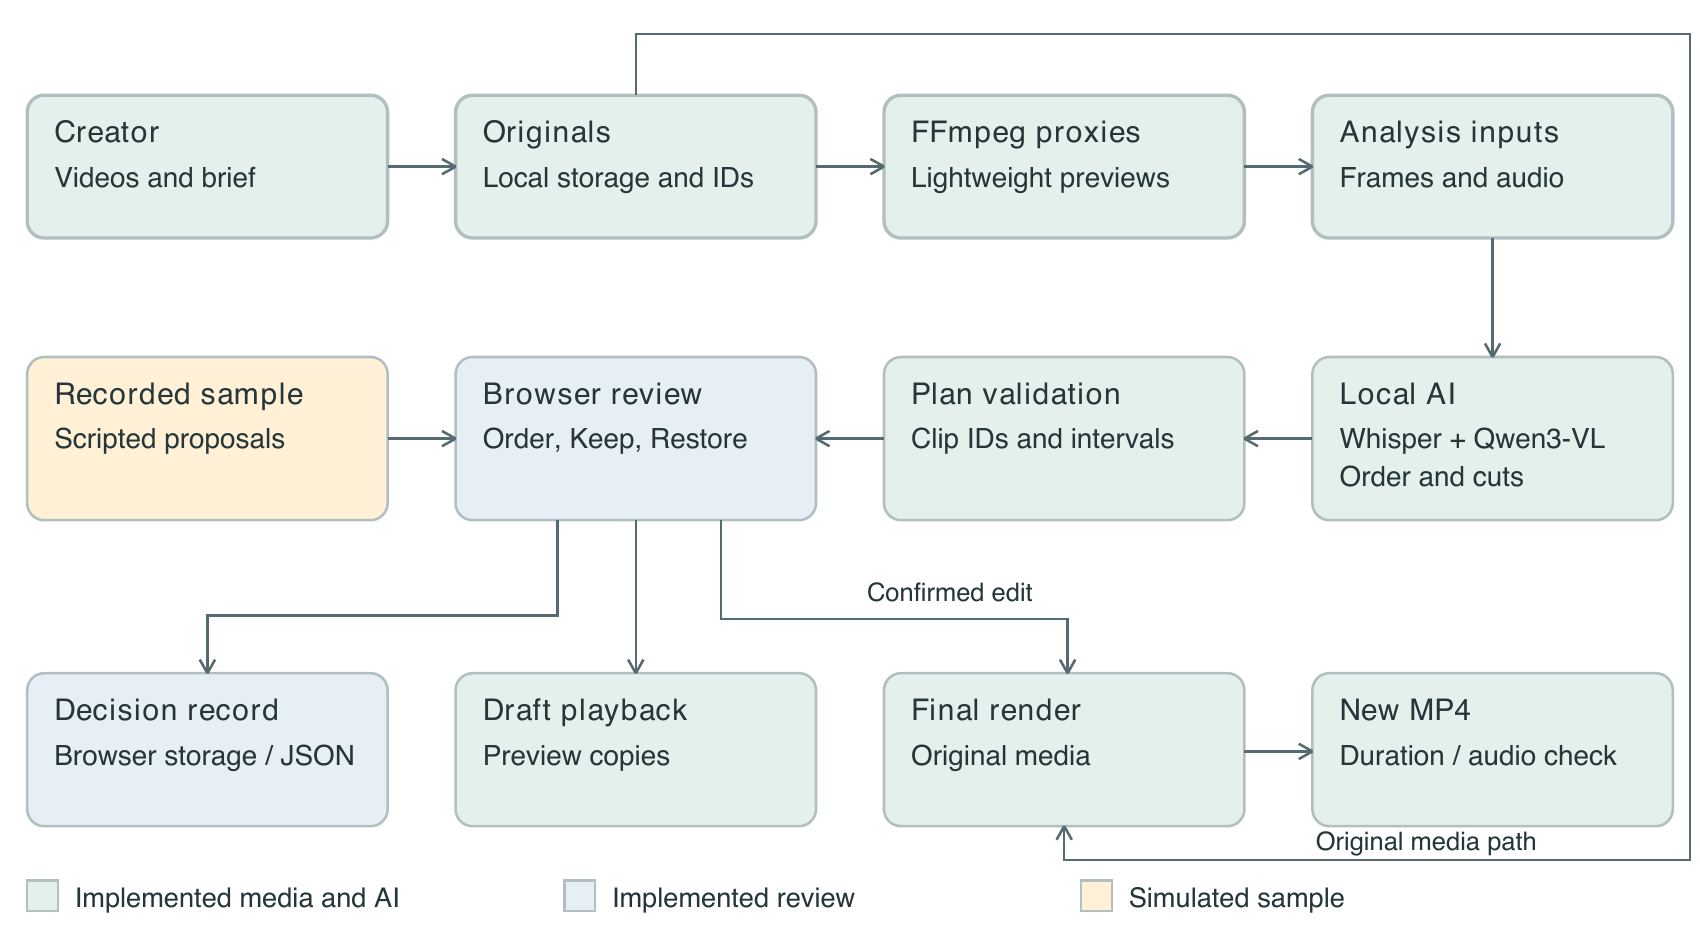
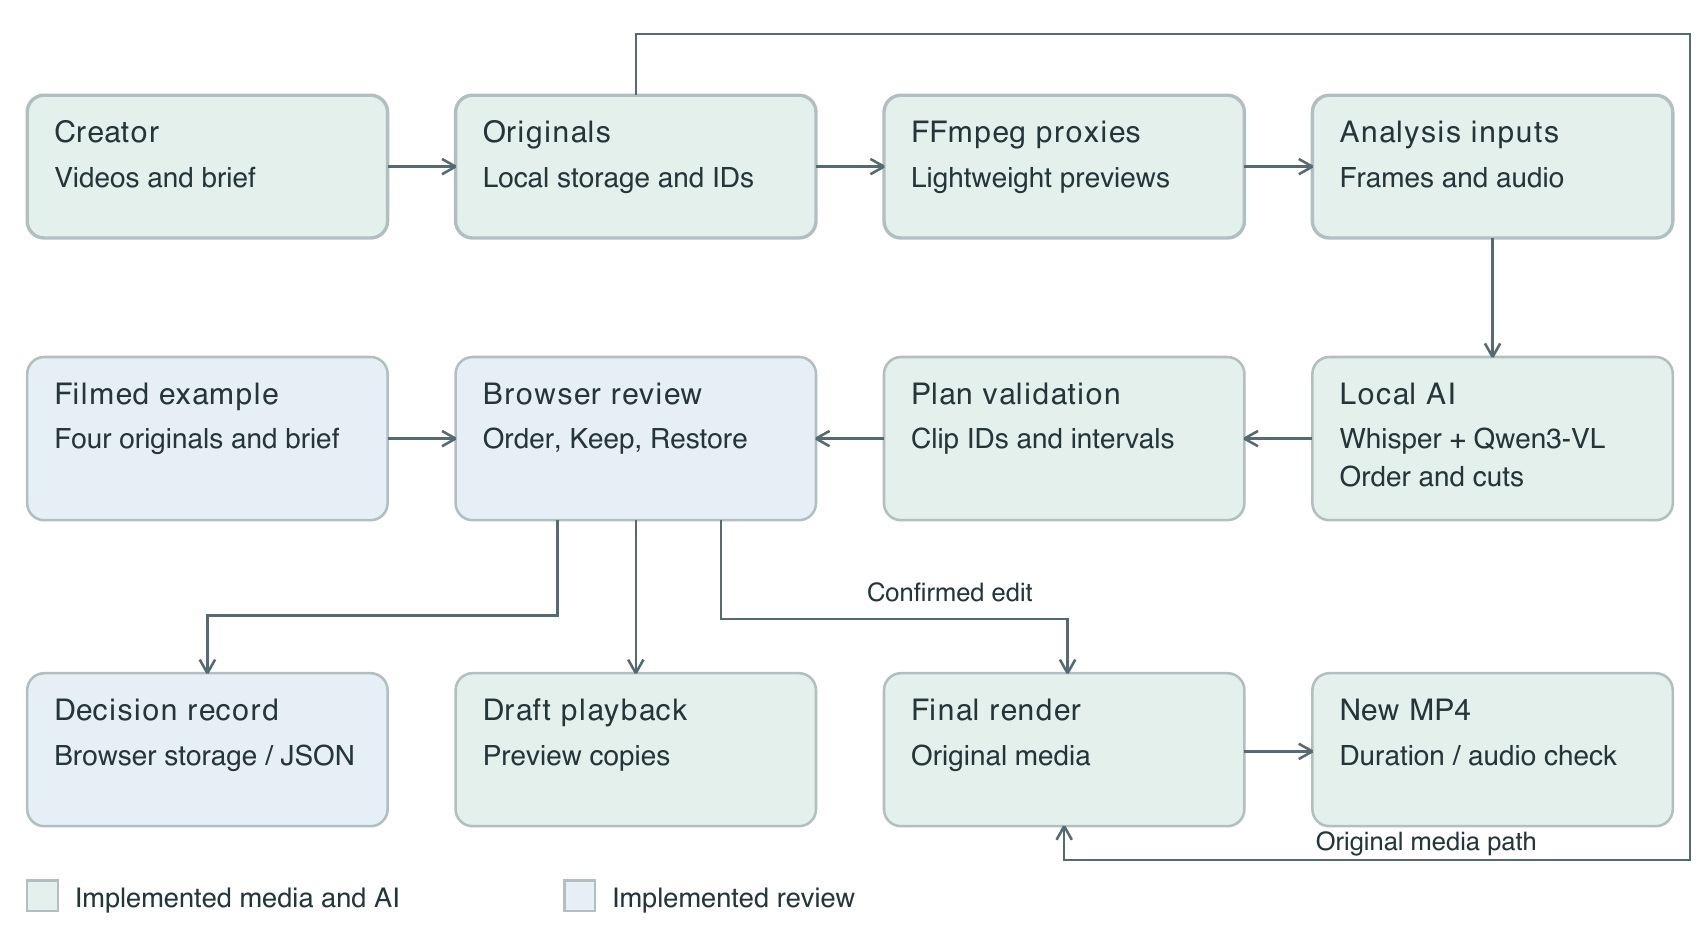
Add the local filmed example

Changed region(s): [[0.0, 0.3679, 0.2494, 0.5518], [0.6235, 0.9197, 0.7794, 0.981]]

diff --git a/web/app.js b/web/app.js
@@ -306,7 +306,7 @@ function render() {
   $('draft-mode').textContent = draft?.revision === project.revision ? 'Rough cut' : 'Build rough-cut preview';
   $('source-mode').disabled = !selected;
   $('export').disabled = busy || !list.length;
-  $('import').disabled = $('new-project').disabled = busy;
+  $('import').disabled = $('new-project').disabled = $('load-example').disabled = busy;
   $('save-decisions').disabled = !project.sources.length;
   modeUi();
 }
@@ -418,6 +418,19 @@ function switchProject(title, label, action) {
 }
 
 $('new-project').onclick = () => switchProject('Start a new project?', 'New project', () => { reset(); notice('Import the videos for your new project.'); });
+$('load-example').onclick = () => switchProject('Open the filmed example?', 'Open filmed example', async () => {
+  try {
+    const example = await api('/api/example');
+    reset(false);
+    project.sources = example.sources;
+    project.order = example.sources.map(source => source.id);
+    project.goal = $('goal').value = example.goal;
+    project.preserve = $('retain').value = example.preserve;
+    playSource(project.order[0]);
+    project.sources.forEach(prepare);
+    notice('Filmed example opened. Select Build AI rough cut to analyze your footage and brief.');
+  } catch (error) { notice(error.message, true); }
+});
 $('import').onclick = () => $('file').click();
 $('file').onchange = event => {
   const files = [...event.target.files];
@@ -482,6 +495,7 @@ async function init() {
   try {
     const setup = await api('/api/bootstrap');
     token = setup.token; maxUpload = setup.max_upload; aiReady = setup.ai_ready;
+    $('load-example').hidden = !setup.example_available;
     let cached;
     try { cached = JSON.parse(localStorage.getItem(KEY)); } catch {}
     if (!cached) {

diff --git a/web/index.html b/web/index.html
@@ -10,6 +10,7 @@
 <header>
   <div class="brand"><span class="mark" aria-hidden="true">L<span>／</span>C</span><div><h1>Local Cut Review</h1><p>Build and review a rough cut on your Mac</p></div></div>
   <div class="header-actions">
+    <button id="load-example" type="button" hidden>Open filmed example</button>
     <button id="new-project" type="button">New project</button>
     <button id="import" class="primary" type="button">Import videos</button>
     <input id="file" type="file" accept="video/*,.mov,.mp4,.m4v,.webm" multiple hidden>

diff --git a/app.py b/app.py
@@ -42,6 +42,17 @@ def source_record(identifier):
                     'preview_url': '/previews/' + identifier + '.mp4'}
 
 
+def filmed_example():
+    config = json.loads((DATA / 'example-project.json').read_text())
+    ids = config.get('source_ids')
+    if (not isinstance(ids, list) or not 1 <= len(ids) <= 20
+            or any(not isinstance(identifier, str) or not re.fullmatch(r'[a-f0-9]{32}', identifier)
+                   for identifier in ids) or len(set(ids)) != len(ids)):
+        raise ValueError('The local example has invalid source references.')
+    return {'sources': [source_record(identifier)[1] for identifier in ids],
+            'goal': str(config.get('goal', ''))[:1200], 'preserve': str(config.get('preserve', ''))[:1200]}
+
+
 def prepare_source(identifier):
     source, info = source_record(identifier)
     if info['preview_ready']:
@@ -172,7 +183,13 @@ class Handler(BaseHTTPRequestHandler):
             if path == '/api/bootstrap':
                 import local_analysis
                 self.send_json({'token': TOKEN, 'export_available': bool(media.ffmpeg_path()),
-                                'max_upload': MAX_UPLOAD, 'ai_ready': local_analysis.configured()})
+                                'max_upload': MAX_UPLOAD, 'ai_ready': local_analysis.configured(),
+                                'example_available': (DATA / 'example-project.json').is_file()})
+            elif path == '/api/example':
+                try:
+                    self.send_json(filmed_example())
+                except (AttributeError, ValueError, OSError):
+                    self.send_json({'error': 'The filmed example is not available on this Mac. Import your own videos to start.'}, 404)
             elif path.startswith('/api/source/'):
                 self.send_json(source_record(path.rsplit('/', 1)[1])[1])
             elif path.startswith('/api/jobs/'):

diff --git a/EVALUATION.md b/EVALUATION.md
@@ -4,7 +4,7 @@ These engineering checks were performed with Codex assistance on 24 November 202
 
 ## Automated checks
 
-The Python suite has 12 checks. It covers HTTP range playback, upload and original preservation, rejecting unconfirmed or invalid exports, mixed source sequence rendering, exact retained ranges, and rejecting a proposed cut that would discard a new instruction. The JavaScript suite covers cut and review decisions. A separate state check verified that removing one source keeps unrelated edits and reopens a comparison that lost its source.
+The Python suite has 12 checks. It covers HTTP range playback, upload and original preservation, rejecting unconfirmed or invalid exports, mixed source sequence rendering, exact retained ranges, and rejecting a proposed cut that would discard a new instruction. Media tests generate temporary clips with FFmpeg. The JavaScript suite has five checks covering cut confirmation and restoration, preservation of earlier decisions, interval boundaries, overlapping cuts and source removal.
 
 ## Observed workflows
 
@@ -13,7 +13,8 @@ The Python suite has 12 checks. It covers HTTP range playback, upload and origin
 | Batch import in Safari | All five selected files loaded. They included the 4K 120 fps source and its 1080p copy. The original's 540 × 960 H.264 preview was about 8 MB and played in Safari. The source is about 490 MB. |
 | Alternate copy | Picture and audio fingerprints paired the original and the H.264 conversion. The proposal kept the original in the timeline and made the copy available to include. |
 | Three real sources, deliberately scrambled | Input order 5725, 5724, 5723. AI order 5723, 5725, 5724. The planner linked the later 13–16 seconds of 5723 to the spoken setup at 0–5 seconds. Combined preview and 1080 × 1920 export both measured 31.32 seconds. |
-| Four sources with a brief in Safari | The order was 5721, 5725, 5724, 5723. The brief asked for device introductions and readiness to leave, keeping all devices and the reason for leaving. The observed one-second proposal compared “Yeah” in 5724 (3–4 s) and 5721 (31–32 s). The proposal was still pending in the observed interface. Draft duration was 71.0 s. |
+| Four sources with a brief in Safari | The order was 5721, 5725, 5724, 5723. The brief asked for device introductions and readiness to leave, keeping all devices and the reason for leaving. The proposal compared “Yeah” in 5724 (3–4 s) and 5721 (31–32 s). Before confirmation the draft was 71.0 s. The subsequent confirmed 4K portrait export measured 70.03 s. |
+| Open filmed example | In a separate Safari project, the button loaded the four original MOV files, all with previews ready, and prefilled the creator's exact goal and preservation note. The converted copy was excluded. |
 | Repeated speech fixture | A temporary, derived local test clip repeated an utterance and included different water and jacket actions. The planner linked 10–14 s to 0–5 s and left the distinct later material untouched. |
 | 4K output | A two-second cut rendered from the 4K original as 2160 × 3840 H.264 at 30 fps, with audio. This checked resolution and source use on one supported file. |
 
@@ -21,4 +22,4 @@ Private recordings and raw inference outputs remain local. The public-facing fig
 
 ## Limits
 
-The four-source proposal demonstrates a model weakness. The same short word in different scenes may play a different role. View the comparison in context before confirming. No accepted result is recorded for that suggestion. The system may also produce no proposed cuts. Groups of sampled frames can miss a brief action, and speech timestamps may need boundary adjustment. The original can be reviewed and intervals can be restored without repeating analysis. The current export normalizes format and does not preserve the original 120 fps or HDR. These tests do not establish benefits across creators, editing tasks or device configurations.
+The four-source proposal demonstrates a model weakness. The same short word in different scenes may play a different role. The confirmed export records the editing decision. Its quality still depends on the creator's judgement about context. The system may also produce no proposed cuts. Groups of sampled frames can miss a brief action, and speech timestamps may need boundary adjustment. The original can be reviewed and intervals can be restored without repeating analysis. The current export normalizes format and does not preserve the original 120 fps or HDR. These checks apply to the observed workflows and device.

diff --git a/README.md b/README.md
@@ -1,12 +1,13 @@
 # Local Cut Review
 
-README prose word count: 652 (excluding this count line and fenced commands).
+README prose word count: 766 (excluding this count line and fenced commands).
 
 I built this project to explore how creators can check what an editing assistant rearranges or removes. The editor takes several videos, proposes an order and short cuts, and lets the creator inspect and change the result before exporting.
 
 ## Status and stack
 
 - **Implemented** Batch import, lightweight source previews, local picture and speech analysis, AI sequencing and timed cut suggestions, continuous draft playback, editing controls and MP4 export from the originals.
+- **Filmed example** My four original phone recordings show a device overview and preparation to go out. The local example opens the videos and brief so the editor can generate fresh suggestions.
 - **Planned** More reliable fine-grained action and speech boundaries, broader codec testing and evaluation with creators.
 
 Browser JavaScript manages the timeline and decisions. A local Python server coordinates FFmpeg, Whisper Base speech transcription and the Qwen3-VL 2B and 4B instruction models through Ollama. The 2B model describes groups of frames. The 4B model proposes the order and checks for redundant or unrelated intervals. Source files and model inference stay on the computer.
@@ -31,6 +32,15 @@ Open the address printed in the terminal, usually [http://127.0.0.1:8766](http:/
 3. Review the order and cut cards. Use **Watch with context** or **Watch comparison**, then keep, adjust or confirm a candidate. Use **Restore** on a confirmed cut. Confirm the rough cut before exporting outstanding AI edits.
 4. Export at 720p, 1080p or 4K. The current output normalizes to 30 fps SDR. The browser's lighter preview does not determine export resolution.
 
+## Filmed example
+
+On my Mac, **Open filmed example** loads `IMG_5721.MOV`, `IMG_5723.MOV`, `IMG_5724.MOV` and `IMG_5725.MOV` and fills in my brief.
+
+- **Creative goal** “a video about introducing my devices and ready to head out”
+- **Content to preserve** “keep all devices and the reason why I want to go out”
+
+Select **Build AI rough cut** to analyze the footage. On another computer, import your own videos and use the same controls. My recordings and the local example settings stay in the ignored `data/` folder or in my local copy of the project.
+
 ## Development record
 
 - `f3ba210` and `f60c59e` turned Lab 4 decision records into a working single-source editor. They introduced local playback, review, reversible cuts and an MP4 path checked against source frames and audio.
@@ -49,4 +59,4 @@ node --test tests/review.test.mjs
 
 ## AI assistance
 
-I set the project direction, recorded the evaluation clips, specified what the draft should preserve and tried the four-clip workflow. OpenAI Codex assisted implementation, model setup, test execution, diagram preparation and report drafting. I reviewed the revised workflow and the AI suggestions before approving this version. The engineering checks establish the tested behavior and leave general editing quality for future evaluation.
+I set the project direction, recorded the evaluation clips, specified what the draft should preserve and tried the four-clip workflow. OpenAI Codex assisted with implementation, model setup, testing and preparing diagrams. I reviewed the revised workflow and the AI suggestions before approving this version. The overall editing quality still needs improvement.
